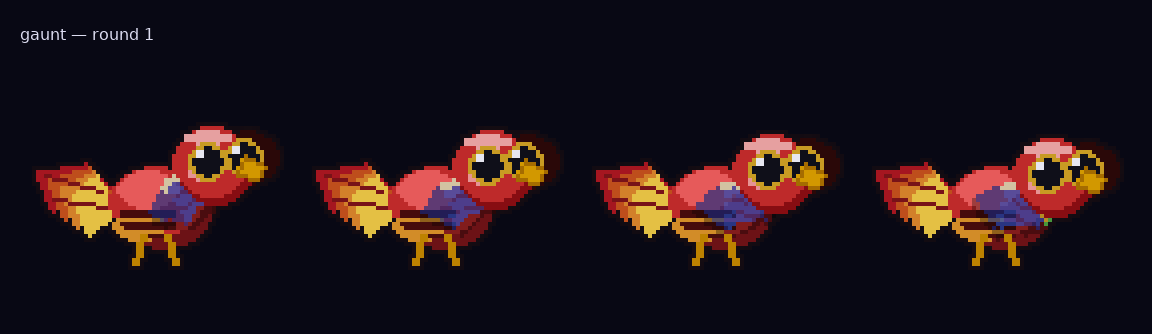
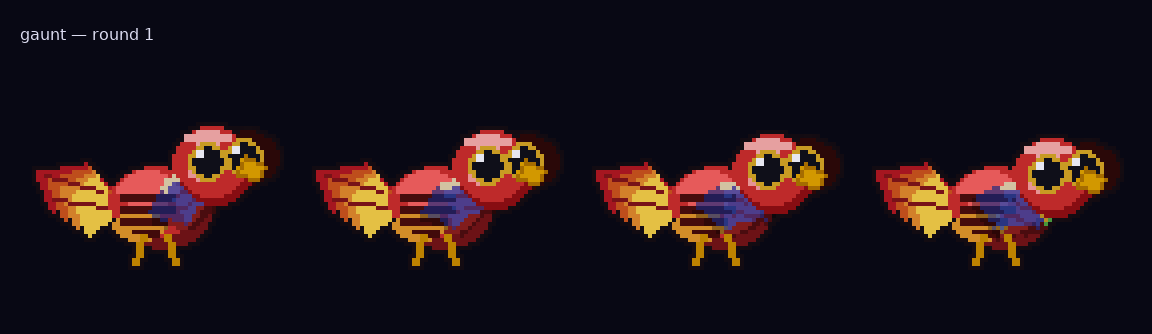
docs(hurt-parrot-v2): gaunt concept round 1
Structural emaciation pass on the hurt parrot: body ellipses at 62%, head
drooping 1px more per flap frame off a bared neck, four stencil-clipped rib
bands through the belly and a 60% wing carrying an exposed bone ridge.
Standalone review script — no game modules touched.

Claude-Session: https://claude.ai/code/session_01SYxW5bMXxMEcZRx1arfvCN

diff --git a/docs/hurt-parrot-v2/gaunt/design.py b/docs/hurt-parrot-v2/gaunt/design.py
@@ -148,13 +148,14 @@ def _build_hurt_frame(wing_angle_deg):
 
     # --- RIBS ---
     # Drawn on their own layer and min-blended against a body-shaped stencil:
-    # the lowest ribs are wider than what is left of the belly, and unclipped
-    # they would float free below the silhouette.
+    # the lower ribs are wider than what is left of the belly, and unclipped
+    # they would float free below the silhouette. Spacing is a flat 3 px so the
+    # four bands read as a ribcage rhythm instead of as stray scratches.
     ribs = pygame.Surface((SPRITE_W, SPRITE_H), pygame.SRCALPHA)
-    _aaellipse(ribs, RIB,     (30, 37), 8, 1)
-    _aaellipse(ribs, RIB,     (30, 40), 7, 1)
-    _aaellipse(ribs, RIB,     (29, 43), 6, 1)
-    _aaellipse(ribs, RIB_LOW, (28, 46), 5, 1)
+    _aaellipse(ribs, RIB,     (30, 33), 8, 1)
+    _aaellipse(ribs, RIB,     (30, 36), 7, 1)
+    _aaellipse(ribs, RIB,     (29, 39), 6, 1)
+    _aaellipse(ribs, RIB_LOW, (28, 42), 5, 1)
     stencil = pygame.Surface((SPRITE_W, SPRITE_H), pygame.SRCALPHA)
     _aaellipse(stencil, (255, 255, 255, 255), (32, 34), 12, 9)
     ribs.blit(stencil, (0, 0), special_flags=pygame.BLEND_RGBA_MIN)
